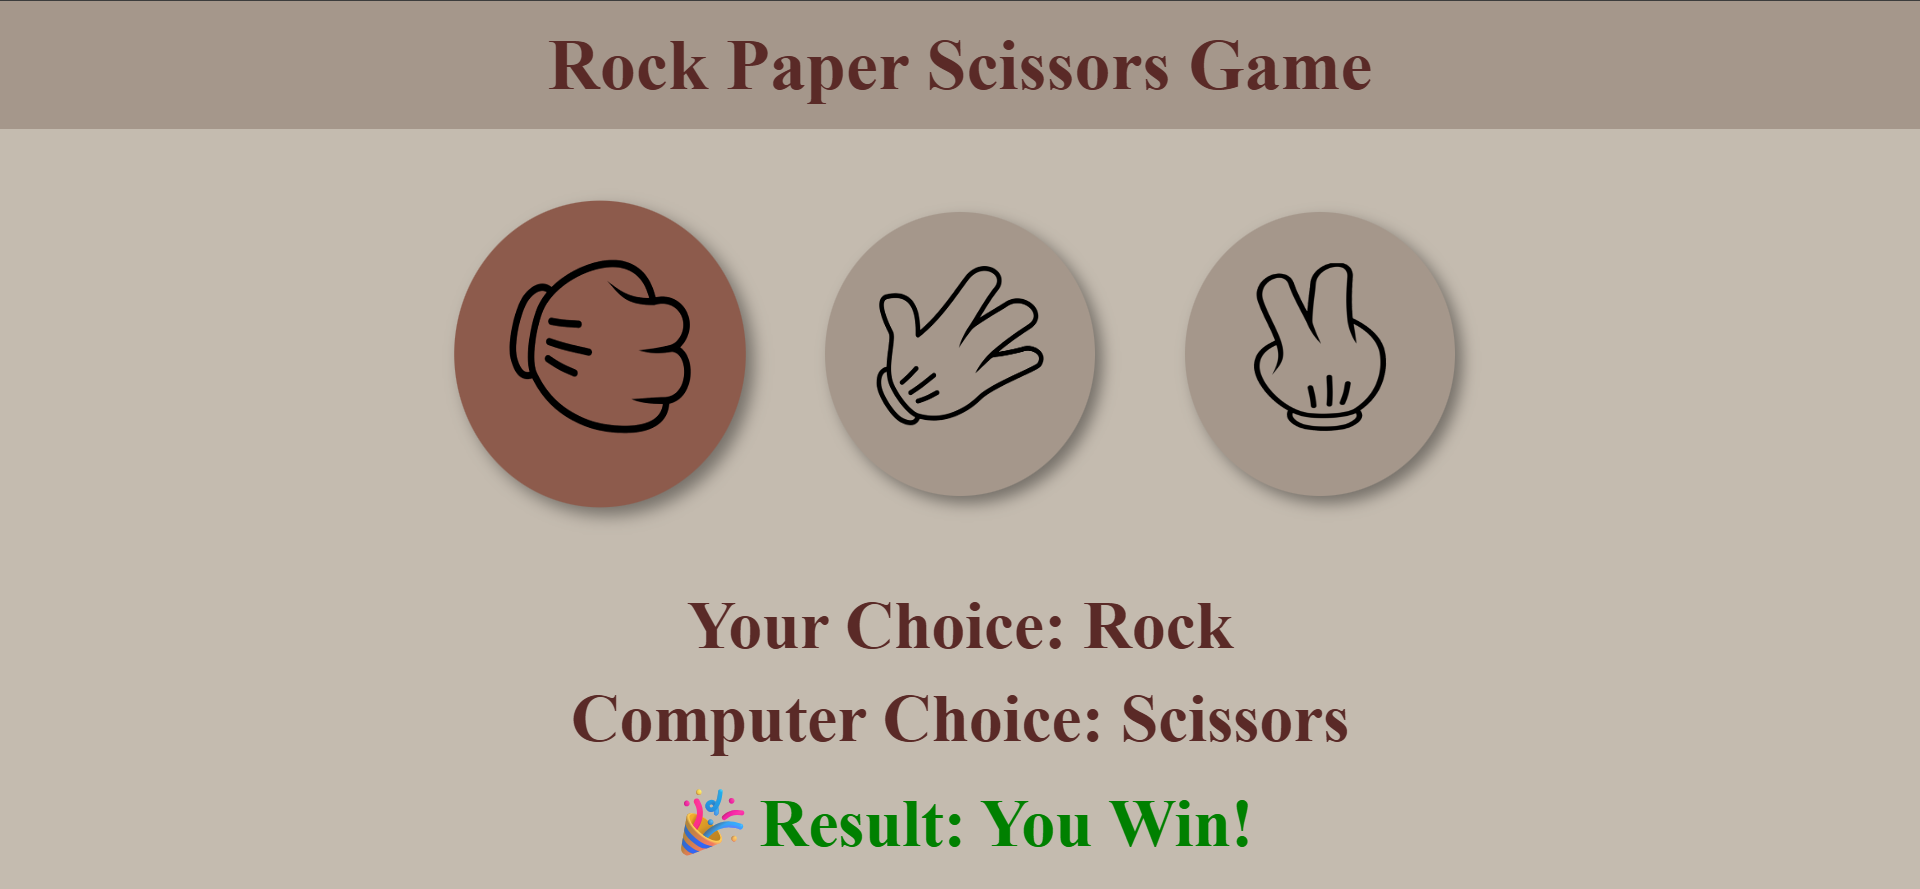
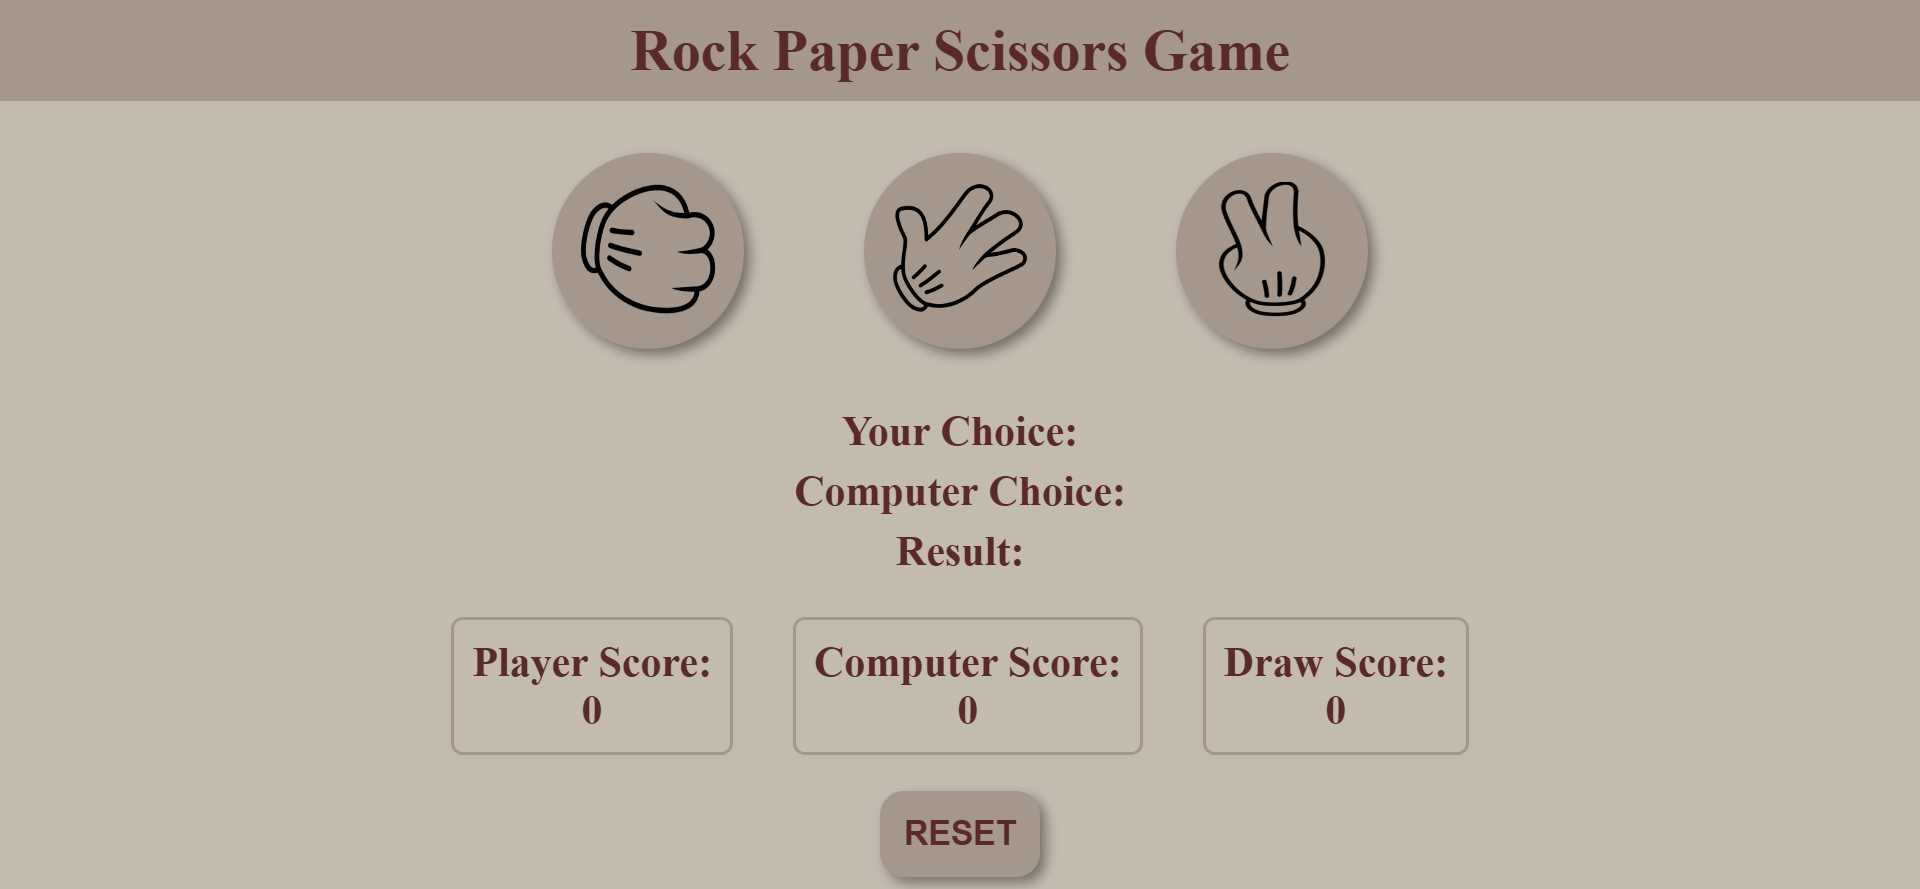
Improved RPS with scoreboard and reset button

diff --git a/projects/1ST YEAR PROJECTS/PortfolioWebsite/index.html b/projects/1ST YEAR PROJECTS/PortfolioWebsite/index.html
@@ -5,7 +5,7 @@
     <meta name="viewport" content="width=device-width, initial-scale=1.0" />
     <title>Portfolio Website</title>
     <link rel="stylesheet" href="style.css" />
-    <link rel="icon" type="image/jpg" href="js logo.jpg">
+    <link rel="icon" type="image/jpg" href="js logo.jpg" />
   </head>
   <body>
     <header id="header">
@@ -33,100 +33,168 @@
         <div id="right-Section">
           <img src="bg.png" alt="image" />
         </div>
-      </section><hr>
+      </section>
+      <hr />
       <section id="about">
         <h2>About Me</h2>
         <p>I'm Janavi, a CSE-Data Science student in MVIT.</p>
         <p>i'm passionate about Web Development and Data Science.</p>
-        <p>i enjoy building projects and continuously learning new technologies.</p>
-      </section><hr>
+        <p>
+          i enjoy building projects and continuously learning new technologies.
+        </p>
+      </section>
+      <hr />
       <section id="skills">
         <p>What i have learned so far</p>
         <h2>Skills</h2>
         <div class="vertical-line">
           <div class="vertical">
-            <img src="Html.png" alt="HTML">
+            <img src="Html.png" alt="HTML" />
             <div class="section-title">HTML</div>
-            <div class="content">I have learned the fundamentals of HTML and can create well-structured web pages using semantic elements such as headers, navigation bars, sections, buttons, images, and forms. I understand how to organize content, create links, and build the basic structure of responsive websites.</div>
+            <div class="content">
+              I have learned the fundamentals of HTML and can create
+              well-structured web pages using semantic elements such as headers,
+              navigation bars, sections, buttons, images, and forms. I
+              understand how to organize content, create links, and build the
+              basic structure of responsive websites.
+            </div>
           </div>
           <div class="vertical">
-            <img src="CSS.png" alt="CSS">
+            <img src="CSS.png" alt="CSS" />
             <div class="section-title">CSS</div>
-            <div class="content">I have learned CSS to style and design websites with clean and attractive layouts. I can use colors, fonts, spacing, Flexbox, hover effects, shadows, borders, and responsive design principles to create visually appealing user interfaces while maintaining a consistent design theme.</div>
+            <div class="content">
+              I have learned CSS to style and design websites with clean and
+              attractive layouts. I can use colors, fonts, spacing, Flexbox,
+              hover effects, shadows, borders, and responsive design principles
+              to create visually appealing user interfaces while maintaining a
+              consistent design theme.
+            </div>
           </div>
           <div class="vertical">
-            <img src="JS.png" alt="JS">
+            <img src="JS.png" alt="JS" />
             <div class="section-title">JavaScript</div>
-            <div class="content">I have learned JavaScript fundamentals, including variables, conditions, loops, functions, arrays, and DOM manipulation. I can handle user interactions using event listeners, dynamically update webpage content, and build interactive projects such as a Rock–Paper–Scissors game.</div>
+            <div class="content">
+              I have learned JavaScript fundamentals, including variables,
+              conditions, loops, functions, arrays, and DOM manipulation. I can
+              handle user interactions using event listeners, dynamically update
+              webpage content, and build interactive projects such as a
+              Rock–Paper–Scissors game.
+            </div>
           </div>
           <div class="vertical">
-            <img src="python.png" alt="python">
+            <img src="python.png" alt="python" />
             <div class="section-title">Python</div>
-            <div class="content">I have learned the basics of Python programming, including variables, data types, conditional statements, loops, functions, lists, dictionaries, and basic file handling. I can write simple programs and solve beginner-level programming problems using Python.</div>
+            <div class="content">
+              I have learned the basics of Python programming, including
+              variables, data types, conditional statements, loops, functions,
+              lists, dictionaries, and basic file handling. I can write simple
+              programs and solve beginner-level programming problems using
+              Python.
+            </div>
           </div>
           <div class="vertical">
-            <img src="git.png" alt="git">
+            <img src="git.png" alt="git" />
             <div class="section-title">Git</div>
-            <div class="content">I have learned to use Git for version control. I understand how to initialize repositories, track changes, stage files, create commits, and maintain project history, which helps me organize and manage my coding projects efficiently.</div>
+            <div class="content">
+              I have learned to use Git for version control. I understand how to
+              initialize repositories, track changes, stage files, create
+              commits, and maintain project history, which helps me organize and
+              manage my coding projects efficiently.
+            </div>
           </div>
           <div class="vertical">
-            <img src="github.png" alt="gitHub">
+            <img src="github.png" alt="gitHub" />
             <div class="section-title">GitHub</div>
-            <div class="content">I use GitHub to store, manage, and share my programming projects. I know how to create repositories, push local projects using Git, and maintain my work online. I also use GitHub as a platform to showcase my learning journey and completed projects.</div>
-          </div> 
+            <div class="content">
+              I use GitHub to store, manage, and share my programming projects.
+              I know how to create repositories, push local projects using Git,
+              and maintain my work online. I also use GitHub as a platform to
+              showcase my learning journey and completed projects.
+            </div>
+          </div>
         </div>
-      </section><hr>
+      </section>
+      <hr />
       <section id="projects">
-        <p style="font-size:23px; color:#F2E3BB;">Here are some of my projects</p>
+        <p style="font-size: 23px; color: #f2e3bb">
+          Here are some of my projects
+        </p>
         <h2>Projects</h2>
         <div class="project1">
           <div id="project1-title">
             <h3>1.Rock-Paper-Scissors Game</h3>
           </div>
           <div id="project1-content">
-            <p>A browser-based game built using HTML, CSS, and JavaScript.The player competes against the computer, which makes random choices. The game displays the player's choice, the computer's choice, and the final result dynamically.</p>
-            <p id="project1-technologies"><span id="tech">Technologies</span><br>
-                • HTML <br>
-                • CSS <br>
-                • JavaScript
+            <p>
+              An interactive JavaScript game featuring player/computer choices,
+              win/lose/draw detection, live score tracking, and a reset
+              function.
+            </p>
+            <p id="project1-technologies">
+              <span id="tech">Technologies</span><br />
+              • HTML <br />
+              • CSS <br />
+              • JavaScript
             </p>
           </div>
           <div id="project1-image">
-            <img src="rock-paper-scissors game.png" alt="Game">
+            <img src="rock-paper-scissors game.png" alt="Game" />
           </div>
           <div id="project1-buttons">
-            <a href="https://your-project-link" target="_blank" style="text-decoration: none;">
+            <a
+              href="https://your-project-link"
+              target="_blank"
+              style="text-decoration: none"
+            >
               <button id="url">View Project</button>
             </a>
             <a href="https://github.com/Janavi1907" target="_blank">
-            <button id="github_url">Github</button>
+              <button id="github_url">Github</button>
             </a>
           </div>
         </div>
-      </section><hr>
+      </section>
+      <hr />
       <section id="contact">
         <h2>Contact Me</h2>
         <div id="email">
-          <div style="font-weight: 600; position: relative; right: -28px;">Email📧:</div>
-           <a href="mailto:janavimegu36@gmail.com" target="_blank">janavimegu36@gmail.com</a>
+          <div style="font-weight: 600; position: relative; right: -28px">
+            Email📧:
+          </div>
+          <a href="mailto:janavimegu36@gmail.com" target="_blank"
+            >janavimegu36@gmail.com</a
+          >
         </div>
         <div id="phone">
-          <div style="font-weight: 600; position: relative; right: -28px;">Phone📞:</div>
+          <div style="font-weight: 600; position: relative; right: -28px">
+            Phone📞:
+          </div>
           <a href="tel:8762908763">+91 8762908763</a>
         </div>
         <div id="location">
-          <div style="font-weight: 600; position: relative; right: -28px;">Location📍:</div>
-          <div style="position: relative; right: -78px; top: 8px;;">Bangalore,Karnataka</div>
+          <div style="font-weight: 600; position: relative; right: -28px">
+            Location📍:
+          </div>
+          <div style="position: relative; right: -78px; top: 8px">
+            Bangalore,Karnataka
+          </div>
         </div>
         <div id="github-link">
-          <div style="font-weight: 600; position: relative; right: -28px;">Github👨💻:</div>
-          <a href="https://github.com/Janavi1907" target="_blank">Visit my GitHub →</a>
+          <div style="font-weight: 600; position: relative; right: -28px">
+            Github👨💻:
+          </div>
+          <a href="https://github.com/Janavi1907" target="_blank"
+            >Visit my GitHub →</a
+          >
         </div>
         <div id="linkedIn">
-          <div style="font-weight: 600; position: relative; right: -28px;">Linkedin🔗:</div>
+          <div style="font-weight: 600; position: relative; right: -28px">
+            Linkedin🔗:
+          </div>
           <a href="" target="_blank">Visit my LinkedIn →</a>
         </div>
-      </section><hr>
+      </section>
+      <hr />
     </main>
     <footer id="footer">
       <div>&copy; 2026 Janavi S. All rights reserved.</div>

diff --git a/projects/1ST YEAR PROJECTS/RockPaperScissors/style.css b/projects/1ST YEAR PROJECTS/RockPaperScissors/style.css
@@ -22,8 +22,9 @@ body{
     justify-content: center;
     align-items: center;
     height: 200px;
-    gap: 100px;
-    margin: 25px;
+    gap: 50px;
+    margin: 25px auto;
+    max-width: 100%;
 }
 #choice, #compChoice, #result{
     text-align: center;
@@ -42,6 +43,7 @@ button{
     box-shadow: 5px 5px 10px rgba(0, 0, 0, 0.4);
     text-align: center;
     background-image: none;
+    flex-shrink: 0;
 }
 button:hover{
     cursor: pointer;
@@ -64,11 +66,12 @@ button:active{
    display: flex;
    align-items: center;
    justify-content: center;
-   gap: 50px;
+   gap: 30px;
    font-size: 35px;
    color: #5A2A27;
    margin-top: 30px;
    font-weight: bold;
+   padding:0 10px;
 }
 #playerScore,#computerScore,#drawScore{
    border: 3px solid #A5978B;
@@ -104,4 +107,46 @@ button:active{
 }
 #rbtn:active{
     transform: scale(0.95); 
+}
+@media screen and (max-width: 600px) {
+    #title {
+        font-size: 2rem; /* Shrinks huge title text */
+    }
+    
+    #buttons {
+        gap: 15px; /* Shrinks layout gaps between rock, paper, scissors */
+        height: auto;
+        margin: 20px 10px;
+    }
+
+    button {
+        padding: 10px; /* Makes the round button frame smaller */
+    }
+
+    button img {
+        width: 70px;  /* Scales down game hand images */
+        height: 70px;
+    }
+
+    #choice, #compChoice, #result {
+        font-size: 22px; /* Scales down game feedback text */
+    }
+
+    #scoreboard {
+        flex-direction: column; /* Stacks player, computer, and draw vertically */
+        gap: 15px;
+        font-size: 24px; /* Decreases score font size */
+        width: 90%;
+        margin: 20px auto;
+    }
+
+    #playerScore, #computerScore, #drawScore {
+        width: 100%; /* Spans full width when stacked vertically */
+        padding: 10px;
+    }
+    
+    #rbtn {
+        font-size: 22px; /* Scales down reset button text */
+        padding: 15px 40px;
+    }
 }
